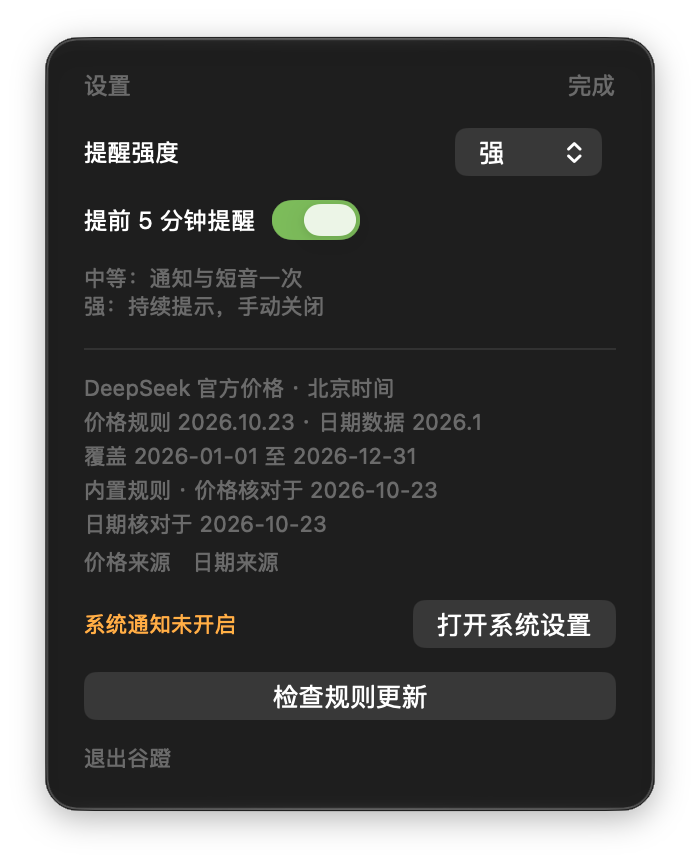
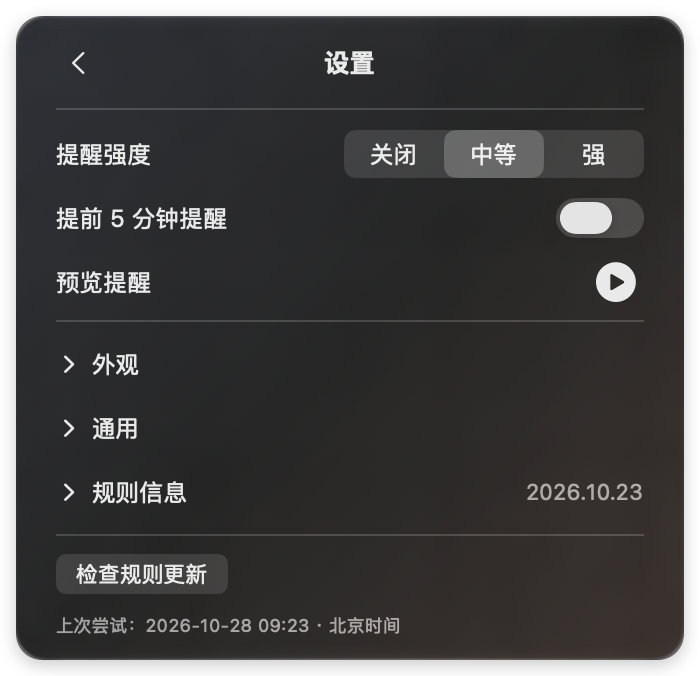
docs: refresh screenshots and product page for 0.1.1
Replace the outdated 304pt screenshots with current 334x322 captures from the installed 0.1.1 build: peak-state main panel and default settings (medium reminder, early reminder off, rules 2026.10.23). Both docs and site assets use the same new images with a transparent shadow.

Update README status and screenshot notes, sync the product page wording (MVP development, current dev version, strong-reminder stop, no public download), and align the design doc's menu bar and main panel sections with the shipped layout instead of the retired 304pt/chevron design.

make check passes.

Changed region(s): [[0.0, 0.0, 0.99, 0.9941], [0.39, 0.7766, 0.63, 0.8388]]

diff --git a/site/index.html b/site/index.html
@@ -4,7 +4,7 @@
   <meta charset="utf-8">
   <meta name="viewport" content="width=device-width, initial-scale=1">
   <meta name="theme-color" content="#10131e">
-  <meta name="description" content="谷蹬：常驻 macOS 菜单栏的 DeepSeek API 峰谷钟点提醒。查看当前价格时段、下一次切换倒计时，并按偏好接收提醒。">
+  <meta name="description" content="谷蹬：常驻 macOS 菜单栏的 DeepSeek API 峰谷钟点提醒（MVP 开发中）。查看当前价格时段、下一次切换倒计时，并按偏好接收提醒。">
   <title>谷蹬 — DeepSeek API 峰谷钟点提醒</title>
   <link rel="icon" type="image/png" href="assets/icon.png">
   <link rel="stylesheet" href="styles.css">
@@ -25,19 +25,19 @@
   <main id="top">
     <section class="hero wrap">
       <div class="hero-copy">
-        <p class="eyebrow"><span class="live-dot"></span> macOS 菜单栏 · 北京时间</p>
+        <p class="eyebrow"><span class="live-dot"></span> macOS 菜单栏 · 北京时间 · MVP 开发中</p>
         <h1>把 DeepSeek API<br><span>峰谷时段</span>放在眼前。</h1>
         <p class="lead">一眼看懂现在是高价还是低价，距离下一阶段还有多久。谷蹬安静地待在菜单栏，需要时提醒你。</p>
         <div class="hero-actions">
           <a class="button primary" href="https://github.com/EasyIndie/EasyAPIClock">源码与开发进度 <span aria-hidden="true">↗</span></a>
-          <a class="text-link" href="https://github.com/EasyIndie/EasyAPIClock">查看 EasyAPIClock 源码 <span aria-hidden="true">↗</span></a>
+          <a class="text-link" href="https://github.com/EasyIndie/EasyAPIClock/blob/main/docs/product/overview.md">阅读产品说明 <span aria-hidden="true">↗</span></a>
         </div>
         <div class="requirements"><span>macOS 13 或更新版本</span><i></i><span>Apple silicon 与 Intel</span></div>
       </div>
       <div class="hero-visual" aria-label="谷蹬 macOS 菜单栏应用界面截图">
         <div class="window-chrome"><span></span><span></span><span></span><b>谷蹬 · DeepSeek API</b></div>
-        <img class="panel-shot" src="assets/panel.png" alt="谷蹬主面板展示当前低价时段和距离下一峰期的剩余时间">
-        <div class="floating-chip"><span class="chip-icon">↓</span><span><b>低价时段</b><small>下一阶段倒计时</small></span></div>
+        <img class="panel-shot" src="assets/panel.png" alt="谷蹬主面板展示当前峰期、价格基准与距离下一谷期的时间">
+        <div class="floating-chip"><span class="chip-icon">↓</span><span><b>峰期</b><small>距谷期倒计时</small></span></div>
       </div>
     </section>
 
@@ -62,7 +62,7 @@
           <div class="feature-mark bell-mark" aria-hidden="true">⌁</div>
           <p class="feature-number">02 / 提醒偏好</p>
           <h3>切换前后，按你的偏好提醒。</h3>
-          <p>选择关闭、中等或强提醒，也可开启提前五分钟提醒。系统通知受 macOS 通知设置、专注模式和静音状态影响。</p>
+          <p>选择关闭、中等或强提醒，也可开启提前 5 分钟提醒。强提醒按 30 秒重复并可在通知上停止；系统通知受 macOS 通知设置、专注模式和静音状态影响。</p>
         </article>
         <article class="feature-card blue-card">
           <div class="feature-mark clock-mark" aria-hidden="true"><span></span></div>
@@ -80,7 +80,7 @@
         <p>主面板聚焦当前峰谷状态、距离下一阶段的时长，以及价格说明。设置收在同一面板里，不需要常驻主窗口。</p>
         <a class="text-link" href="https://github.com/EasyIndie/EasyAPIClock/tree/main/docs">了解项目文档 <span aria-hidden="true">↗</span></a>
       </div>
-      <div class="settings-frame"><img src="assets/settings.png" alt="谷蹬设置面板：提醒强度、偏好与规则信息"></div>
+      <div class="settings-frame"><img src="assets/settings.png" alt="谷蹬设置面板：提醒强度、提前提醒、预览与规则检查"></div>
     </section>
 
     <section class="privacy-section" id="privacy">
@@ -92,7 +92,7 @@
     </section>
 
     <section class="download wrap">
-      <div><p class="eyebrow">EasyAPIClock · 开源项目</p><h2>让下一次切换，<br>不再靠记忆。</h2><p>MVP 正在开发中；首个公开版本发布前，可先查看源码与开发进度。</p></div>
+      <div><p class="eyebrow">EasyAPIClock · 开源项目</p><h2>让下一次切换，<br>不再靠记忆。</h2><p>当前开发版 0.1.1，MVP 正在开发中；首个公开版本发布前不提供下载，可先查看源码与开发进度。</p></div>
       <div class="download-actions"><a class="button primary" href="https://github.com/EasyIndie/EasyAPIClock">前往 GitHub 仓库 <span aria-hidden="true">↗</span></a><a class="text-link" href="https://github.com/EasyIndie/EasyAPIClock/blob/main/LICENSE">MIT License</a></div>
     </section>
   </main>

diff --git a/README.md b/README.md
@@ -24,11 +24,11 @@
 ## 截图
 
 <p align="center">
-  <img src="docs/images/panel.png" width="300" alt="谷蹬主面板：低价时段、距高峰 17 小时 35 分">
-  <img src="docs/images/settings.png" width="300" alt="谷蹬设置面板：提醒强度、规则版本与来源">
+  <img src="docs/images/panel.png" width="300" alt="谷蹬主面板：当前峰期、价格基准与距谷期时间">
+  <img src="docs/images/settings.png" width="300" alt="谷蹬设置面板：提醒强度、提前提醒与规则检查">
 </p>
 
-> 真实截图（macOS 27，深色外观），不是设计稿。截图机器未授予通知权限，因此主面板显示「通知未授权」、设置页显示「系统通知未开启」；这是应用的真实降级提示。
+> 真实截图（macOS 27，深色外观），来自 `/Applications` 安装的 0.1.1 本地包，不是设计稿。截图时通知已授权。
 
 ## 当前状态
 
@@ -39,7 +39,7 @@
 | 北京时间峰谷规则、节假日覆盖、下次真实切换计算 | ✅ 已实现；当前全套79个单元测试 |
 | 内置 2026 价格与节假日规则包，SHA-256 校验 | ✅ 已实现 |
 | macOS 菜单栏、主面板、内嵌设置、本地提醒偏好 | ✅ 已实现并可通过 `make run-mac` 启动 |
-| 中等 / 强提醒的通知计划、去重、拒绝补发历史通知 | ✅ 计划/去重已实现；macOS 27 已验权限拒绝降级；2026-10-27 安装签名版授权允许并取得预览系统送达记录，正式平台矩阵待完 |
+| 中等 / 强提醒的通知计划、去重、拒绝补发历史通知 | ✅ 2026-10-28 安装版已验中等单次、强提醒 30 秒重复、停止、退出后送达与重启不重放；实际听感、Focus/静音与睡眠唤醒待验 |
 | 远程规则包下载、完整性校验、原子替换、未来生效 | ✅ 机制已实现；默认指向仓库 `rules` 分支，由 Rules workflow 发布 |
 | iOS 共享引擎 | ✅ 最小外壳，仅用于验证跨平台核心 |
 | 发布打包 | ✅ `make package-mac` 生成通用二进制 zip/dmg（默认 ad-hoc）；发布流程使用 EasyIndie/EasyRelease 做 Developer ID 签名与 Apple 公证，尚未发布公开 Release |
@@ -48,7 +48,7 @@
 | 英文界面 | ⛔ 未完成 |
 | 规则包数字签名 | ⛔ 仅 SHA-256 完整性校验，见 [ADR-0004](docs/adr/0004-rule-bundles.md) |
 
-设计基准是 [`docs/handoff/design-preview.html`](docs/handoff/design-preview.html)。用浏览器直接打开即可查看，它是交互示意，不是生产实现。
+当前设计基准是 [`docs/product/design-macos.md`](docs/product/design-macos.md) 与 [`docs/design/brand-refresh-2026-10-27/`](docs/design/brand-refresh-2026-10-27/)。`docs/handoff/design-preview.html` 是早期归档示意，不代表当前实现。
 
 ## 图形界面启动
 
@@ -58,7 +58,7 @@
 
 ## 快速开始
 
-应用最低构建目标：macOS13.0，iOS维持17.0。macOS13.7.8 Intel真机已原生启动并完成菜单栏、设置及偏好跨重启持久化检查；arm64的macOS13、登录启动与完整通知矩阵仍待验，见[兼容记录](docs/ops/macos-13-compatibility.md)。
+应用最低构建目标：macOS 13.0，iOS 维持 17.0。0.1.1 通用包已在 macOS 13.7.8 Intel 解压启动并显示正确状态；arm64 的 macOS 13、登录启动与完整通知矩阵仍待验，见[兼容记录](docs/ops/macos-13-compatibility.md)。
 
 开发主机要求：macOS14+、Xcode16+（Swift6），具体主机版本还需满足所用Xcode要求。XcodeGen 由脚本安装固定版本，无需手动 `brew install`。
 

diff --git a/docs/product/design-macos.md b/docs/product/design-macos.md
@@ -12,11 +12,11 @@
 
 ## 二、常驻状态栏
 
-内容为方向形状、峰 / 谷文字、紧凑剩余时间，例如「⌄ 谷 · 2小时」或「⌃ 峰 · 4小时」。
+内容为状态图标、峰 / 谷文字、紧凑剩余时间，例如「↓ 谷 · 2小时」或「↑ 峰 · 4小时」。
 
 实现：
 
-- 方向形状使用 SF Symbol：`chevron.down`（谷）、`chevron.up`（峰）、`questionmark`（待确认）。
+- 状态图标使用 SF Symbol：`arrow.down.circle.fill`（谷，系统绿色）、`arrow.up.circle.fill`（峰，系统橙色）、`questionmark`（待确认）；箭头表示当前时段，不表示价格涨跌。
 - 文字为 `谷 · 2小时` / `峰 · 4小时`；等宽数字。
 - 按分钟或更粗粒度更新，避免秒数闪动和状态项宽度频繁变化。
 - 规则不确定时显示 `规则待更新`。
@@ -26,22 +26,21 @@
 
 ## 三、主面板
 
-参考宽度约 304pt；实现为固定 `.frame(width: 304)`。
+固定 334×322pt（2026-10-26 改版后基准；早期 304pt 稿已废弃）。
 
 | 区域 | 内容 | 实现 |
 |---|---|---|
-| 顶部 | 左侧「谷蹬」，右侧「设置」 | 12pt 次级文字 + 纯文字按钮 |
-| 状态 | 「高峰」或「低价」 | 24pt、medium、字距 2 |
-| 价格 | 「模型单价为谷期的 2 倍」或「模型单价较峰期低 50%」 | 13pt；峰用橙色，谷用绿色，未知用次级色 |
-| 倒计时说明 | 「距离低价」或「距离高峰」 | 12pt 次级文字 |
-| 倒计时 | 示例「02:00」 | 54pt 等宽数字；跨日改用 36pt 的「N天 N小时」 |
-| 下一切换 | 「小时 : 分钟 · 14:00 切换」 | 12pt 次级文字；跨日只显示「周一 09:00 切换」 |
-| 底部 | 日期类型简述与当前提醒强度 | 12pt；上方一条细分隔线 |
+| 品牌行 | 「DeepSeek API」与「峰谷价格提醒 · 北京时间」 | 品牌色与 11pt 次级文字，无设置入口 |
+| 状态 | 「峰期」或「谷期」 | 约 44pt、semibold；峰用珊瑚色，谷用青绿色，未知用次级色 |
+| 倒计时 | 示例「1 小时 44 分」 | 数字 52pt semibold、单位 18pt medium 共用基线；跨日显示天/小时；不足一分钟为「即将切换」 |
+| 倒计时说明 | 「后进入谷期」或「后进入峰期」 | 13pt 次级文字 |
+| 价格 | 「模型单价为谷期的 2 倍」或「模型单价较峰期低 50%」 | 13pt，来自规则 facts |
+| 底部 | 左「12:00 进入谷期」真实切换时刻，右齿轮（设置）与电源（退出谷蹬） | 33pt 热区，上方细分隔线；设置不再占顶部 |
 
 约束：
 
 - 价格说明不能缩短成无基准的「半价」或含糊的「节省一半费用」。
-- 主面板不重复显示当前时间，也不常驻提醒强度选择器。
+- 主面板不重复显示当前时间，也不常驻提醒强度选择器；右下角齿轮进入设置，电源图标退出谷蹬。
 - 跨日倒计时不挤进模糊的 `HH:MM`。
 - 周末 / 假日显示「周末 · 全天低价」「国庆节 · 全天低价」；星期几用工作日细分（早间、上午高峰、午间、下午高峰、晚间）。
 - 未知状态：状态名「待确认」，价格行显示具体规则问题，倒计时「—」，说明「更新规则后恢复价格提醒」，底部「提醒暂停」。
